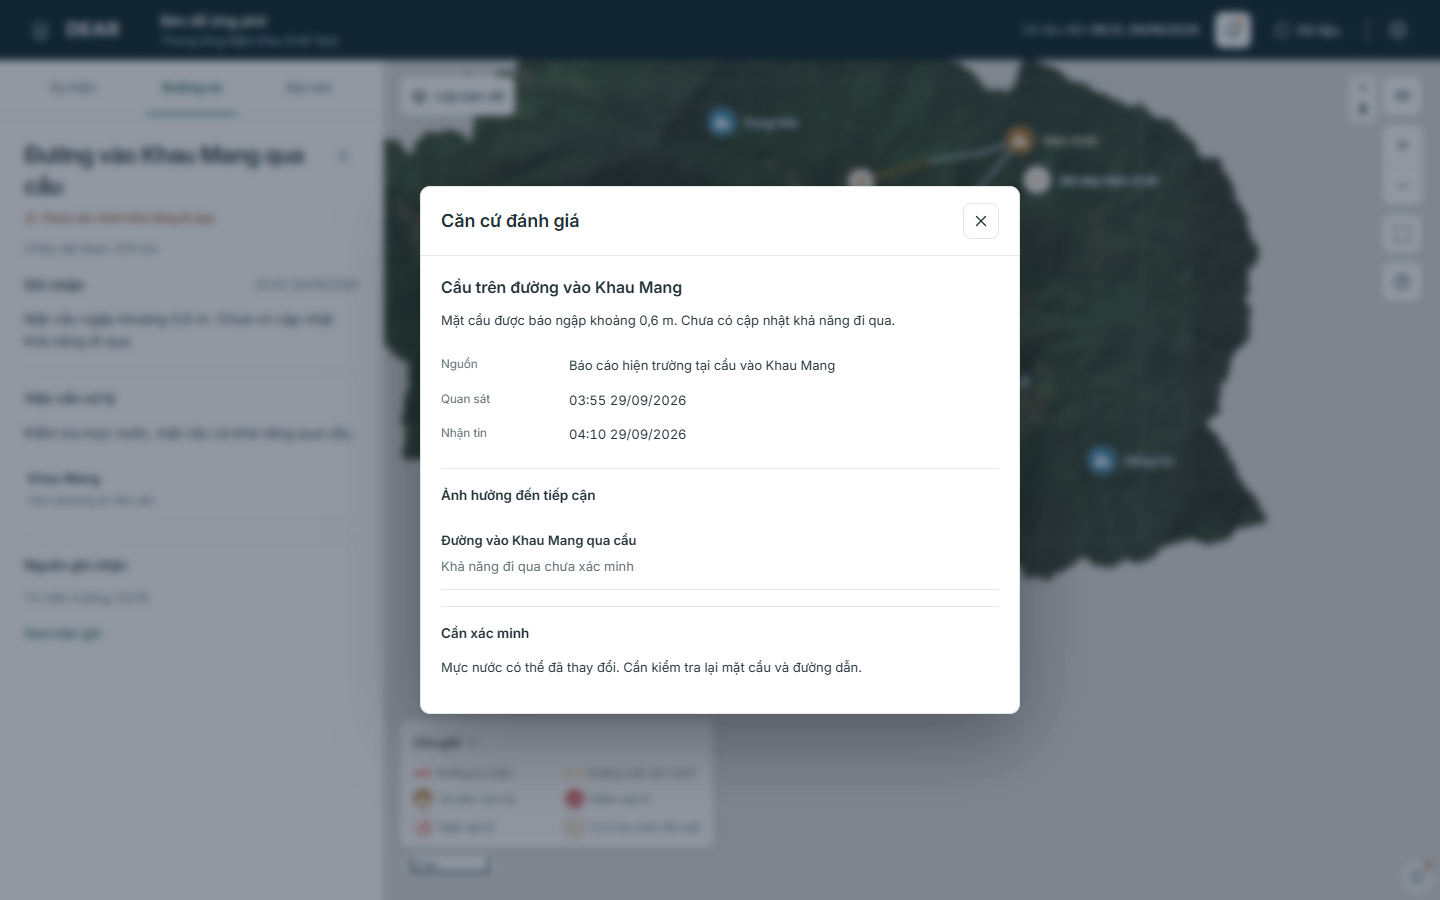
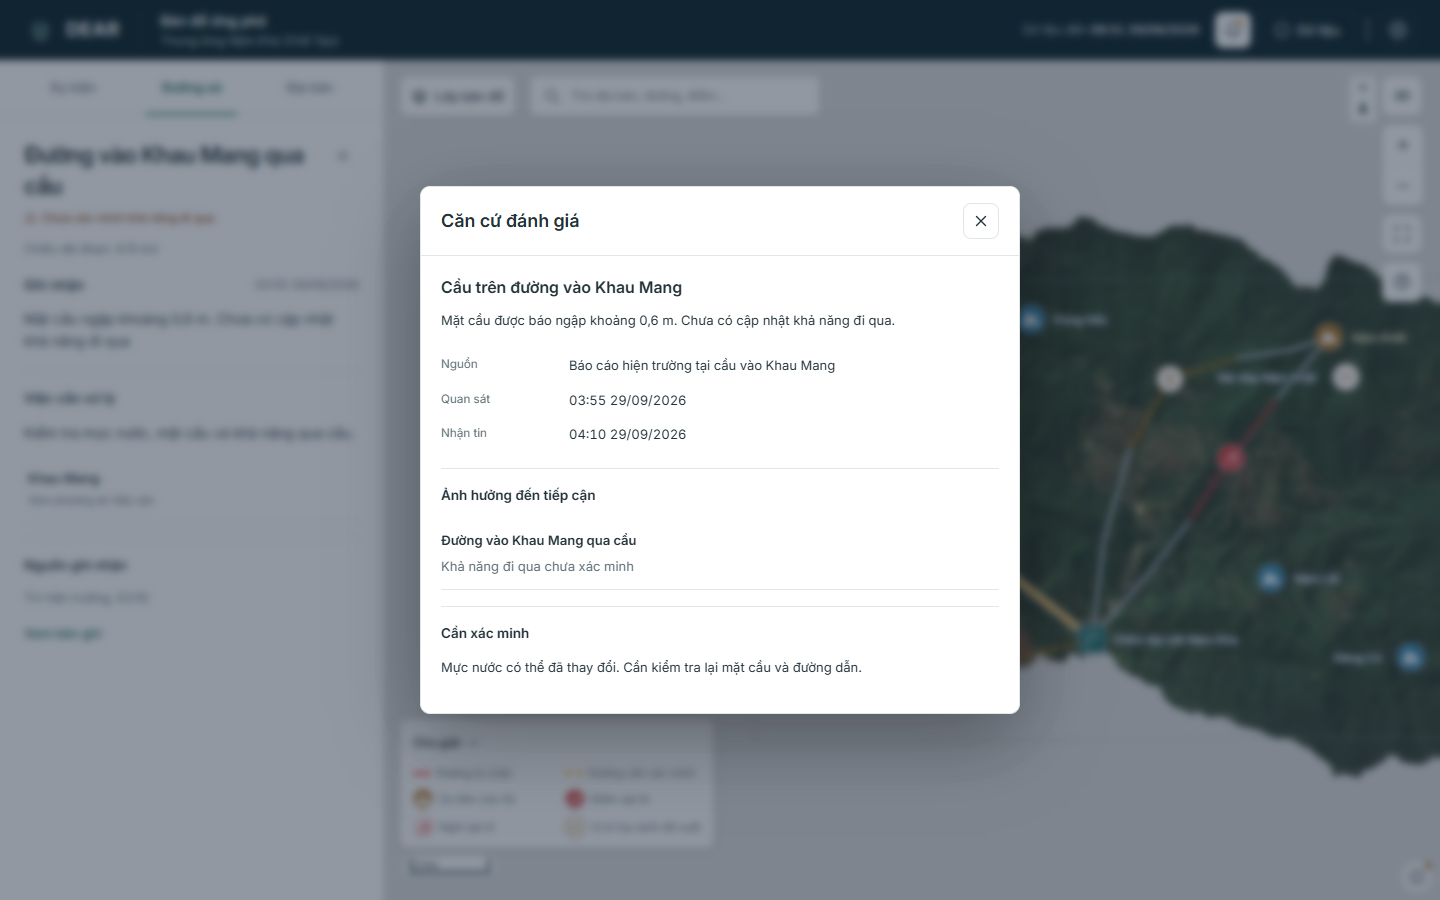
docs: update response workflow and decision export guidance

Changed region(s): [[0.25, 0.0622, 1.0, 0.8711], [0.75, 0.4978, 0.8125, 0.56], [0.6875, 0.3422, 0.7812, 0.3733]]

diff --git a/docs/tasks/sic-2026.md b/docs/tasks/sic-2026.md
@@ -1,8 +1,8 @@
 # Công việc SIC 2026
 
-Trạng thái: Hiện hành. Phụ trách: SW / PO. Cập nhật: 2026-10-02.
+Trạng thái: Hiện hành. Phụ trách: SW / PO. Cập nhật: 2026-10-03.
 
-**Hiện trạng:** web chạy trọn luồng với gói dữ liệu mô phỏng Chế Tạo. Đã có JSON Schema, checksum, API đọc snapshot, bản đồ 2D độc lập WebGL và 3D tải khi cần. Tuyến được tính từ mạng đường, ưu tiên theo quy tắc có kiểm thử. Chưa tích hợp xử lý ảnh vệ tinh, dữ liệu thực được duyệt hoặc xuất kết quả từ ứng dụng.
+**Hiện trạng:** web chạy trọn luồng với gói dữ liệu mô phỏng Chế Tạo. Có API snapshot, 2D độc lập WebGL, 3D, tìm kiếm chung, tính tuyến/ưu tiên và xuất PNG/JSON. Chưa tích hợp xử lý ảnh vệ tinh hoặc dữ liệu thực được duyệt.
 
 Vai trò: SW = phần mềm, AI = xử lý dữ liệu, RS = BA/viễn thám, PO = sản phẩm. Trạng thái: `todo` chưa làm, `in_progress` có một phần đầu ra, `blocked` thiếu điều kiện, `done` đạt kiểm tra.
 
@@ -17,9 +17,9 @@ Mục tiêu: trình diễn trơn tru **một tình huống đã chuẩn bị** t
 | 3 | Duyệt quy tắc ưu tiên, nối mạng đường và tốc độ giả định | Giải thích được vì sao Nậm Khắt được ưu tiên, vì sao chọn đường vòng và vì sao ETA có điều kiện | RS / PO |
 | 4 | Diễn tập trên máy trình chiếu: luồng thường, mất Internet và lỗi 3D | Giữ được địa bàn đang chọn, đọc nguồn, áp dụng tin mới và chuyển sang 2D. Ghi phiên bản, máy/browser và lỗi còn lại | SW / PO |
 
-**Trước khi trình diễn:** duyệt nội dung mô phỏng và thử trên máy trình chiếu. API cục bộ đã có, không phụ thuộc pipeline ảnh thật. Ảnh trước/sau và xuất PNG tiếp tục theo các mốc bên dưới.
+**Trước khi trình diễn:** duyệt nội dung mô phỏng và thử trên máy trình chiếu. API cục bộ và xuất PNG/JSON đã có. So ảnh trước/sau còn thiếu dữ liệu đầu vào.
 
-## Đối chiếu phạm vi P0/P1/P2 ngày 2026-10-02
+## Đối chiếu phạm vi P0/P1/P2 ngày 2026-10-03
 
 “Có demo” chỉ xác nhận thao tác trên kịch bản cố định; chưa thay kết quả nghiệm thu A01–A10.
 
@@ -40,17 +40,18 @@ Mục tiêu: trình diễn trơn tru **một tình huống đã chuẩn bị** t
 | Decision evidence | Có demo | Bản ghi nguồn có quan sát, nhận tin, ảnh hưởng và điều cần xác minh. Chưa có ảnh/file chứng cứ gốc |
 | Data contract & API integration | Có demo | JSON Schema và API đọc snapshot. Chưa có ingestion, xử lý ảnh, lưu cập nhật hay xác thực |
 | Prepared / Golden Dataset Mode | Có demo | Gói nghiệp vụ v0.2, manifest/checksum và kiểm tra tham chiếu. Chưa được RS/PO duyệt thành golden dataset |
-| End-to-end rescue flow | Có demo | Chưa chạy trên dữ liệu được duyệt hay xuất kết quả |
+| End-to-end rescue flow | Có demo | Đã xuất PNG/JSON theo tuyến và bản cập nhật. Chưa chạy trên dữ liệu được duyệt |
 | Stability & performance | Một phần | Đã thử offline, lỗi GLB/WebGL/API và các kích thước màn hình. Cần giảm gói JavaScript đầu vào và thử phiên dài |
 
 | P1/P2 | Hiện trạng |
 |---|---|
-| Search | Tìm đường, điểm ảnh hưởng và địa bàn trong panel. Đối tượng được chọn ngoài khung 2D được đưa vào vùng nhìn |
+| Search | Có ô tìm chung trên bản đồ: địa bàn, đường, điểm ảnh hưởng, điểm ứng phó, AOI. Tìm tên/mã hoặc tiếng Việt không dấu, đưa kết quả vào vùng nhìn 2D/3D |
 | Draw & measure | Có nền tảng đo trong code, chưa có công cụ operator trong workspace |
 | Terrain/slope, route alternatives, elevation profile | Có địa hình và hai tuyến cho Nậm Khắt. Mặt cắt bám hình tuyến, có trục và đọc vị trí. Giữ khoảng thiếu DEM, độ dốc chưa thay cho khảo sát mặt đường |
 | Pre/post imagery, confidence/uncertainty | Chưa có so ảnh; trạng thái “chưa rõ” có trên đường nhưng chưa có lớp chất lượng phân tích |
 | Alert list, auth, UI polish | Có xem nhanh thông báo và chi tiết tin hiện trường; chưa có feed/trung tâm cảnh báo hay auth; UI đang chỉnh tiếp |
-| P2: advanced layers, điểm ứng phó, time navigation, briefing, export, roles | Có điểm tập kết và vị trí hạ cánh H đề xuất. Vị trí H là mô phỏng, chưa khảo sát. Các mục còn lại chưa triển khai |
+| Briefing, PNG/JSON | Có xem trước bản đồ và nhận định theo tuyến đang chọn. Bản xuất giữ thời điểm, căn cứ và trạng thái mô phỏng |
+| P2: advanced layers, điểm ứng phó, time navigation, PDF/GIS export, roles | Có điểm tập kết và vị trí hạ cánh H đề xuất. Vị trí H là mô phỏng, chưa khảo sát. Các mục còn lại chưa triển khai |
 
 Danh sách P2 đặt PDF/GIS export sau demo. Kế hoạch SIC hiện hành vẫn yêu cầu **ảnh PNG của quyết định** ở D06/D15/A07; đây là đầu ra nhẹ để kiểm tra và trình bày, không đồng nghĩa làm bộ xuất báo cáo/PDF/GIS.
 
@@ -63,7 +64,7 @@ Danh sách P2 đặt PDF/GIS export sau demo. Kế hoạch SIC hiện hành vẫ
 | D03 | Bản build tĩnh chạy qua HTTP; đổi bước giữ lựa chọn; cố định môi trường build | SW | 2026-09-24 | D02 | in_progress |
 | D04 | Bản đồ 2D có ảnh/cộng đồng/tuyến đúng vị trí, chọn được | SW | 2026-09-25 | D01–D03, dữ liệu mẫu | in_progress |
 | D05 | Kết quả thử 3D: nguồn địa hình, quyền dùng, thời gian tải và lỗi | SW / RS | 2026-09-26 | D04, nguồn 3D | in_progress |
-| D06 | PNG thử có bản đồ nền, đường/điểm, chữ và nguồn | SW | 2026-09-26 | D04 | todo |
+| D06 | PNG thử có bản đồ nền, đường/điểm, chữ và nguồn | SW | 2026-09-26 | D04 | in_progress |
 
 ## G2 — Tích hợp dữ liệu
 
@@ -82,7 +83,7 @@ Danh sách P2 đặt PDF/GIS export sau demo. Kế hoạch SIC hiện hành vẫ
 | D12 | So hai tuyến và độ cao; lựa chọn khớp bản đồ; ETA có giả định | SW | 2026-10-07 | D09, D11 | in_progress |
 | D13 | So ảnh trước/sau cùng vị trí; rõ ngày, nguồn, vùng thiếu ảnh | SW / RS | 2026-10-07 | D08, D10 | blocked |
 | D14 | Duyệt một nhận định tác động và hai tuyến; ghi đoạn chưa xác minh | RS / PO | 2026-10-09 | D08–D13 | blocked |
-| D15 | Xem trước, PNG và JSON khớp tuyến/phiên bản; đổi tuyến thì bản xuất đổi | SW | 2026-10-09 | D06, D11, D12 | todo |
+| D15 | Xem trước, PNG và JSON khớp tuyến/phiên bản; đổi tuyến thì bản xuất đổi | SW | 2026-10-09 | D06, D11, D12 | in_progress |
 | D16 | Bộ dữ liệu dùng tập demo có checksum; chạy sáu phút và xuất ảnh đạt | SW / RS / PO | 2026-10-11 | D14, D15 | blocked |
 
 ## G4 — Bàn giao
@@ -105,6 +106,7 @@ Danh sách P2 đặt PDF/GIS export sau demo. Kế hoạch SIC hiện hành vẫ
 
 | Ngày | Nội dung |
 |---|---|
+| 2026-10-03 | Bổ sung tìm chung trên bản đồ, xem trước và tải PNG/JSON theo snapshot. Panel giảm thông tin lặp, so tuyến thành một danh sách. Cần duyệt nguồn, dữ liệu và thử trên máy trình chiếu trước nghiệm thu. [Bản xuất](../architecture/decision-export.md) |
 | 2026-09-23 | Có tài liệu thiết kế; chưa có app và bộ dữ liệu demo |
 | 2026-09-24 | Đã rà soát nguồn; thời điểm này việc triển khai vẫn `todo` |
 | 2026-10-01 | Đã có web Vite/React/Three.js với kịch bản cố định; cập nhật trạng thái theo code. Chưa xác nhận mục nào `done` theo A01–A10. Ưu tiên D02, D04/D10, D08/D09 và D06/D15 |

diff --git a/docs/quality/workspace-review.md b/docs/quality/workspace-review.md
@@ -1,6 +1,6 @@
 # Rà soát giao diện và luồng ứng phó
 
-Cập nhật: 2026-10-02. Phạm vi: web React, gói Chế Tạo v0.2 và API snapshot cục bộ. Chưa thử với người trực thực tế.
+Cập nhật: 2026-10-03. Phạm vi: web React, gói Chế Tạo v0.2 và API snapshot cục bộ. Chưa thử với người trực thực tế.
 
 ## Kết quả nghiệp vụ
 
@@ -13,6 +13,7 @@ Cập nhật: 2026-10-02. Phạm vi: web React, gói Chế Tạo v0.2 và API sn
 | Tin mới thay đổi gì | Đọc không đổi dữ liệu. Áp dụng tin tạo lại đường, tuyến và ưu tiên | Feed, duyệt công bố, lưu lịch sử |
 | Địa hình dọc tuyến | Mặt cắt theo hình tuyến, vị trí nối bản đồ, độ dốc DEM, khoảng thiếu | Nguồn DEM, vertical datum, kiểm chứng độ cao |
 | Ký hiệu theo proposal | Địa bàn, đường, điểm ảnh hưởng, tập kết, H đề xuất | Polygon sạt lở/ngập, xác nhận đi được hoặc cô lập |
+| Chia sẻ nhận định | Xem trước, PNG bản đồ 2D, JSON có phiên bản và căn cứ | Duyệt dữ liệu/nguồn, thử trên máy trình chiếu |
 
 Ưu tiên cứu hộ không đồng nghĩa cô lập. Chưa ghi nhận chặn không đồng nghĩa đã xác nhận đi được. H là vị trí mô phỏng chưa khảo sát. Quy tắc và giả định ở [phân tích ứng phó](../architecture/response-analysis.md).
 
@@ -26,10 +27,14 @@ Cập nhật: 2026-10-02. Phạm vi: web React, gói Chế Tạo v0.2 và API sn
 | Nguồn | Nhận định, nguồn, giờ quan sát/nhận tin, ảnh hưởng và giới hạn. Đoạn liên quan mở được từ bản ghi |
 | Bản đồ | 2D mặc định, 3D tải khi cần. Nhóm điểm gần nhau, nhãn tránh chồng, chú giải tách lớp. 2D chỉ Bắc thật, 3D chỉ Bắc lưới |
 | Attribution | Nút thông tin mở nguồn và giấy phép. Giữ dòng credit tối thiểu khi dùng nền ngoài |
+| Tìm kiếm | Tên/mã hoặc tiếng Việt không dấu, chọn kết quả bằng bàn phím, mở chi tiết và đưa vào vùng nhìn |
+| Bản xuất | Snapshot được sao chép khi mở xem trước. PNG không phụ thuộc GPU hoặc Internet |
 
 ![Tiếp cận Nậm Khắt](assets/workspace-summary.png)
 
 ![Bản ghi ảnh hưởng tại cầu](assets/workspace-evidence.png)
+
+[Xem bản xuất PNG](assets/decision-map.png). Ảnh có cùng tuyến, thời điểm và nhận định với bản xem trước trong ứng dụng.
 
 Ảnh từ bản build khi chặn Internet. Khoảng trống ngoài ảnh địa hình là vùng thiếu nền cục bộ, không phải vùng đã xác nhận không có thiên tai.
 
@@ -38,12 +43,13 @@ Cập nhật: 2026-10-02. Phạm vi: web React, gói Chế Tạo v0.2 và API sn
 | Kiểm tra | Kết quả |
 |---|---|
 | TypeScript và build | Đạt. Gói JavaScript đầu vào còn khoảng 1,3 MB trước gzip |
-| TypeScript unit tests | 93 kiểm thử đạt: hợp đồng, tham chiếu, quy tắc, mạng đường, ETA, thời điểm, DEM, ký hiệu và tọa độ |
+| TypeScript unit tests | 99 kiểm thử đạt, gồm tìm kiếm, snapshot không giữ tham chiếu mutable, đổi tuyến và áp dụng tin |
 | Python | 8 kiểm thử gói dữ liệu và 2 kiểm thử HTTP API đạt |
 | Chrome: prepared và API | Sự kiện, AOI, địa bàn, tuyến, nguồn, đọc/áp dụng tin và mặt cắt đạt |
 | Chrome: lỗi dữ liệu và GPU | Chặn Internet, lỗi GLB, không có WebGL, mất context 3D: 2D tiếp tục dùng được. API lỗi không hiện dữ liệu mô phỏng thay thế |
 | Chrome: thao tác và bố cục | Kéo/đổi độ rộng bằng bàn phím, khôi phục độ rộng, nhóm điểm, nhãn. Desktop 1440/1366/1024 px và mobile 390/320 px không tràn ngang |
+| Chrome: tìm kiếm và bản xuất | Tìm không dấu và mã đường, xem trước, tải PNG/JSON, thời điểm và tuyến khớp trước/sau tin mới |
 
 Kiểm tra trình duyệt có thể chạy lại bằng `scripts/check_workspace.py` sau khi mở bản build qua HTTP. Cần Python Playwright và Chromium hoặc tham số `--chrome` trỏ đến Chrome đã cài.
 
-Chưa tích hợp xử lý ảnh vệ tinh, ảnh trước/sau, xuất kết quả, backend vận hành hoặc nghiệm thu dữ liệu. Chưa đo mục tiêu 3–6 giờ hay độ ổn định phiên dài. Tiến độ ở [công việc SIC](../tasks/sic-2026.md), thao tác trình diễn ở [demo](../operations/demo.md).
+Chưa tích hợp xử lý ảnh vệ tinh, ảnh trước/sau, xuất PDF/GIS, backend vận hành hoặc nghiệm thu dữ liệu. Chưa đo mục tiêu 3–6 giờ hay độ ổn định phiên dài. Tiến độ ở [công việc SIC](../tasks/sic-2026.md), thao tác trình diễn ở [demo](../operations/demo.md).

diff --git a/docs/operations/demo.md b/docs/operations/demo.md
@@ -5,15 +5,16 @@ Dùng bộ dữ liệu mô phỏng Chế Tạo. Mở đầu nói rõ phạm vi n
 | Thời gian | Thao tác | Điều cần thể hiện |
 |---|---|---|
 | 00:00–00:40 | Sự kiện, mở vùng đánh giá nếu cần | Mưa kích hoạt đánh giá sạt lở. AOI khác phạm vi DEM. Dữ liệu đến 09:31 |
-| 00:40–01:30 | Chọn **Đánh giá tiếp cận: Nậm Khắt** | Ưu tiên cao do báo cáo chặn đường và mất liên lạc. Việc tiếp theo là kiểm tra phương án tiếp cận |
+| 00:40–01:30 | Chọn **Nậm Khắt** trong danh sách ưu tiên hoặc tìm trên bản đồ | Ưu tiên cao do báo cáo chặn đường và mất liên lạc. Việc tiếp theo là kiểm tra phương án tiếp cận |
 | 01:30–02:30 | Tab **Tuyến**, so đường chính và đường vòng | Đường chính bị chặn. Đường vòng cần xác minh điểm vượt khe. Khoảng thời gian giả định 40 đến 85 phút, nếu thông tuyến |
 | 02:30–03:20 | Chọn đoạn vượt khe, mở **Xem bản ghi** | Phân biệt quan sát, nhận tin, ảnh hưởng và điều chưa xác minh. X đóng về đúng ngữ cảnh |
 | 03:20–04:15 | Chuông, **Xem chi tiết**, **Cập nhật bản đồ** | Đọc tin không đổi bản đồ. Áp dụng tin 09:45 tính lại tuyến và đánh giá. Hai tuyến đã biết có đoạn bị chặn, ETA bị bỏ |
 | 04:15–05:10 | Mặt cắt, thử 3D khi cần | Đọc độ cao và vị trí tương ứng trên bản đồ. Độ dốc DEM không phải độ dốc mặt đường đã khảo sát |
+| 05:10–06:00 | **Lưu đánh giá**, xem trước và tải PNG/JSON | Bản xuất giữ tuyến đang chọn, trạng thái sau tin 09:45 và căn cứ. Không tạo ETA cho tuyến bị chặn |
 
 Nguồn và phương pháp: [phân tích ứng phó](../architecture/response-analysis.md). Mã NR-18/PR-7/T-5 là mã mô phỏng, không đọc chúng như số hiệu đường chính thức. Ký hiệu H là vị trí hạ cánh đề xuất, chưa khảo sát.
 
-Nếu cần rút ngắn, giữ địa bàn, tuyến và tin mới. So ảnh trước/sau và xuất PNG/PDF chưa có. Không giới thiệu chúng như chức năng đang chạy.
+Nếu cần rút ngắn, giữ địa bàn, tuyến và tin mới. So ảnh trước/sau và xuất PDF/GIS chưa có.
 
 ## Chuẩn bị
 

diff --git a/docs/product/design-system.md b/docs/product/design-system.md
@@ -1,6 +1,6 @@
 # Design system DEAR
 
-Hiện hành, cập nhật 2026-10-02. Web React là bản triển khai chuẩn. Catalog HTML trong `references/` là bản tham khảo, chưa đồng bộ hoàn toàn.
+Hiện hành, cập nhật 2026-10-03. Web React là bản triển khai chuẩn. Catalog HTML trong `references/` là bản tham khảo, chưa đồng bộ hoàn toàn.
 
 ## Nền tảng
 
@@ -23,7 +23,9 @@ Giá trị dùng chung nằm trong [tokens.css](../../DEM_to_3D/viewer/src/style
 | Hàng danh sách | Tên trước, dữ kiện sau. Tên dài xuống dòng, trạng thái không chen giữa tên |
 | Panel chi tiết | Một tiêu đề, một trạng thái. Đường: ghi nhận, việc cần xử lý, nguồn. Địa bàn: tiếp cận, tuyến, căn cứ. X đóng về ngữ cảnh mở |
 | Mặt cắt | Gắn sát đáy vùng bản đồ, không bọc thêm card hoặc bo góc ngoài. Nguồn bản đồ nằm trong vùng nhìn phía trên |
-| Phương án tuyến | Dùng `RouteOption`. Dấu chọn biểu thị lựa chọn, không biểu thị an toàn |
+| Phương án tuyến | Dùng `RouteOption` trong một danh sách có đường phân cách. Tên, khoảng cách/ETA và trạng thái thành các dòng riêng. Dấu chọn biểu thị lựa chọn, không biểu thị an toàn |
+| Tìm kiếm bản đồ | Một ô chung cho địa bàn, đường và điểm. Kết quả ghi tên và loại đối tượng. Hỗ trợ Enter, mũi tên và Escape |
+| Lưu đánh giá | Hành động phụ trong chi tiết địa bàn. Mở xem trước trước khi tải, không thêm trang báo cáo vào menu chính |
 | Hộp xem nhanh | Nội dung ngắn và hành động xem chi tiết. Không khóa bản đồ |
 | Hộp thoại | Focus vào khi mở. Tab giữ bên trong, Escape đóng và trả focus về nút mở |
 | Câu chữ | Tên cụ thể, trạng thái nhất quán, câu ngắn. Không dùng chấm phẩy để ghép nhiều ý, mũi tên trang trí hoặc dấu gạch dài để ngăn dữ kiện |

diff --git a/docs/architecture/decision-export.md b/docs/architecture/decision-export.md
@@ -1,0 +1,16 @@
+# Bản xuất đánh giá
+
+Cập nhật: 2026-10-03.
+
+| Nội dung | Quy tắc |
+|---|---|
+| Điểm bắt đầu | **Lưu đánh giá** trong chi tiết địa bàn hoặc tab Tuyến |
+| Phiên bản | Sao chép snapshot khi mở xem trước. Giữ sự kiện, phiên bản, thời điểm, tin đã áp dụng và tuyến đang chọn |
+| PNG | Bố cục 2D, bản đồ và nhận định. Có đường, địa bàn, điểm ảnh hưởng, điểm ứng phó, AOI, chú giải, hướng Bắc và tỷ lệ |
+| JSON | Snapshot gồm quy tắc, giả định tốc độ, hình tuyến, trạng thái đường, căn cứ và checksum tài sản địa hình |
+| Thiếu dữ liệu | Không tạo ảnh nếu thiếu nền phù hợp. JSON vẫn tải được. Tuyến bị chặn không có ETA |
+| Dữ liệu mô phỏng | Ghi trạng thái trong bản xuất, không bỏ để tạo cảm giác dữ liệu đã được duyệt |
+
+Renderer dùng ảnh cục bộ và chiếu lại sang EPSG:3857, không chụp DOM hoặc phụ thuộc WebGL/nền EOX. Tỷ lệ đo theo vĩ độ giữa bản đồ. Dữ liệu JSON giữ tọa độ nguồn EPSG:32648. Bản xuất hiện chứa toàn bộ lớp nghiệp vụ, không sao chép mức zoom hoặc trạng thái bật/tắt lớp của màn thao tác.
+
+PNG dùng [Canvas `toBlob`](https://developer.mozilla.org/en-US/docs/Web/API/HTMLCanvasElement/toBlob). Mã nằm trong [features/briefing](../../DEM_to_3D/viewer/src/features/briefing/decisionSnapshot.ts). Quy tắc đánh giá tại [response-analysis.md](response-analysis.md).

diff --git a/docs/plans/sic-2026.md b/docs/plans/sic-2026.md
@@ -1,6 +1,6 @@
 # Kế hoạch SIC 2026
 
-> Trạng thái: Hiện hành · Phụ trách: PO / SW · Cập nhật: 2026-10-02
+Trạng thái: Hiện hành. Phụ trách: PO / SW. Cập nhật: 2026-10-03.
 
 ## Mốc bàn giao
 
@@ -13,7 +13,7 @@
 | Chung kết SIC | 2026-10-26 | Trình diễn bản đã bàn giao; tập và chuẩn bị trong 2026-10-21–2026-10-25 |
 
 - G1–G3 vào Chủ nhật; ghép thử các phần vào thứ Sáu trước đó: 2026-09-25, 2026-10-02, 2026-10-09.
-- Web Vite/React/Three.js đã chạy với dữ liệu Chế Tạo cố định và manifest địa hình. G1 chưa được nghiệm thu vì thiếu schema nghiệp vụ, dữ liệu được duyệt và PNG thử. Không coi UI demo là dữ liệu vận hành.
+- Web đã có schema, manifest, API snapshot và PNG/JSON thử. G1 chưa được nghiệm thu vì dữ liệu và nguồn chưa được duyệt. Bản mô phỏng không thay dữ liệu vận hành.
 
 Nguồn mốc: [tài liệu SIC](../sources.md). Tiến độ tại [danh sách công việc](../tasks/sic-2026.md), đầu ra theo [tiêu chí nghiệm thu](../quality/acceptance.md).
 

diff --git a/docs/README.md b/docs/README.md
@@ -15,6 +15,7 @@
 | Luồng ứng phó hiện tại đã ổn chưa? | [Rà soát giao diện](quality/workspace-review.md) | PO, SW, RS |
 | Dùng công nghệ gì, chia phần mềm thế nào? | [Kiến trúc hệ thống](architecture/overview.md) | SW, AI |
 | Mức ưu tiên và tuyến được tính từ đâu? | [Phân tích ứng phó](architecture/response-analysis.md) | Cả nhóm |
+| Bản đồ và nhận định được lưu thế nào? | [Bản xuất đánh giá](architecture/decision-export.md) | SW, PO, RS |
 | Dữ liệu bàn giao theo định dạng nào? | [Đặc tả dữ liệu](architecture/data-contract.md) | SW, AI, RS |
 | Khi viết schema cần những trường nào? | [Danh mục trường](architecture/data-fields.md) | SW, AI |
 | Sau SIC phát triển gì với QTT? | [Kế hoạch thử nghiệm thực tế](plans/pilot.md) | PO, RS |
